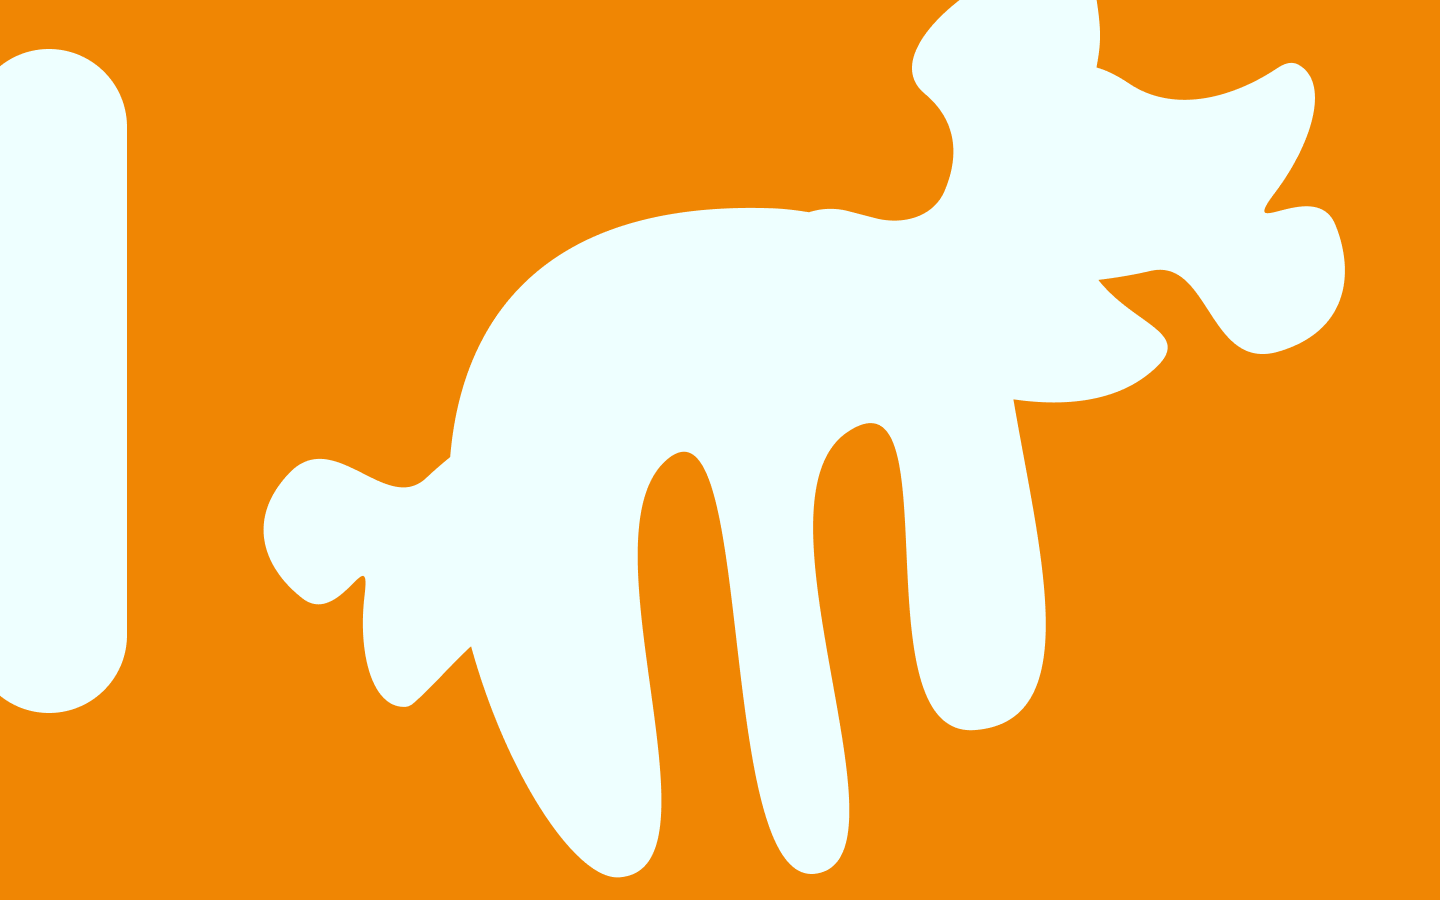
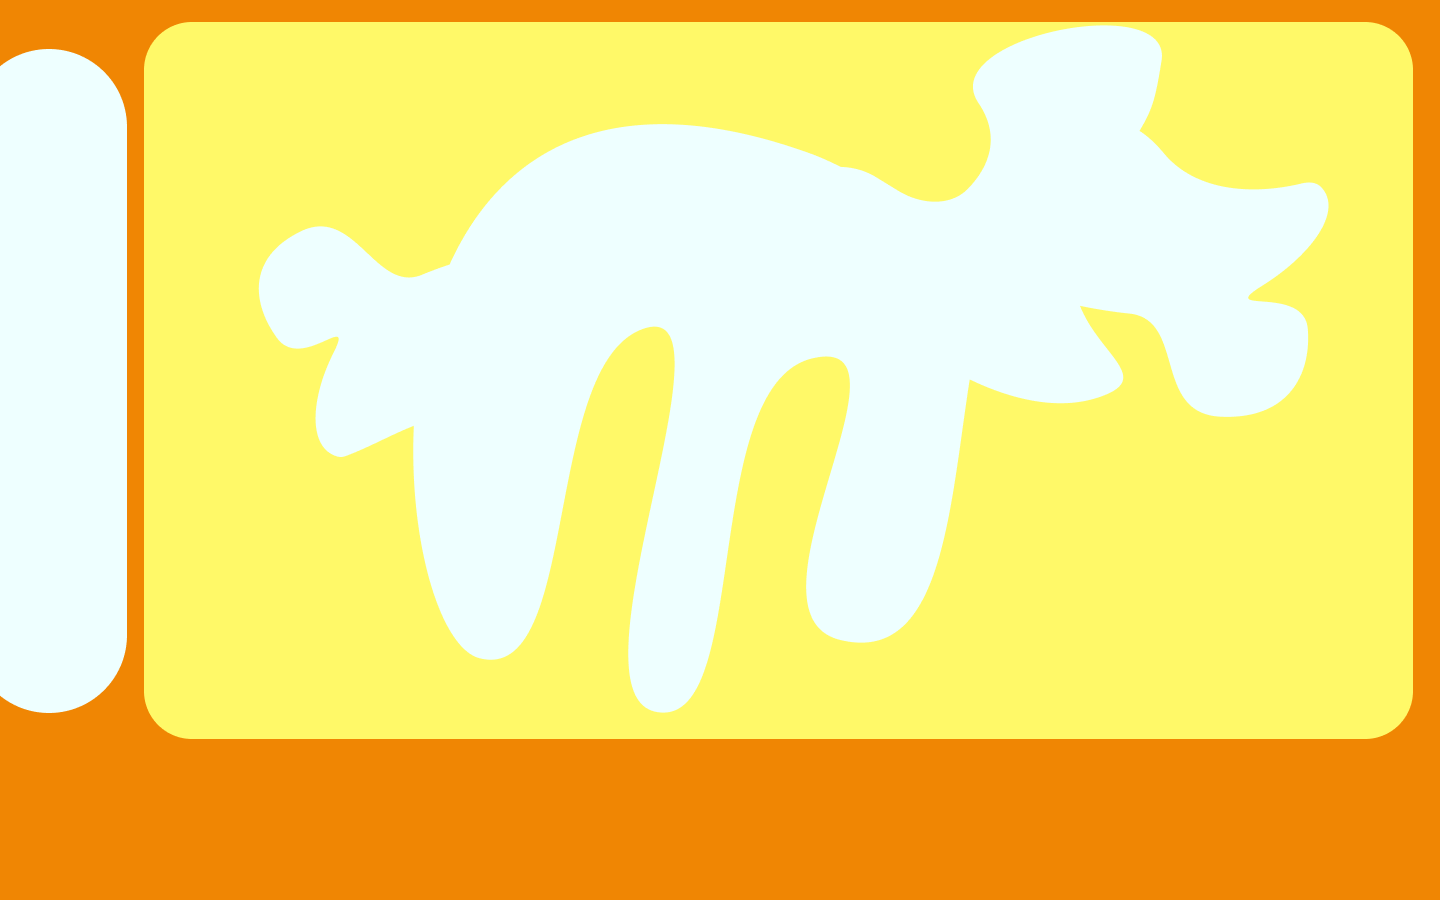
done

diff --git a/paint.html b/paint.html
@@ -1,0 +1,76 @@
+<!DOCTYPE html>
+<html lang="en" dir="ltr">
+  <head>
+    <meta charset="utf-8" />
+     <meta name="viewport" content="width=device-width"/>
+     <title>заплетак</title>
+     <script src="https://ajax.googleapis.com/ajax/libs/jquery/3.6.0/jquery.min.js"></script>
+     <script src="https://ajax.googleapis.com/ajax/libs/jquery/3.6.3/jquery.min.js"></script>
+     <script src="https://cdn.jsdelivr.net/npm/p5@1.5.0/lib/p5.js"></script>
+     <script src="https://code.jquery.com/jquery-3.6.0.js"></script>
+     <script src="https://code.jquery.com/ui/1.13.2/jquery-ui.js"></script>
+
+     <script src="js/draww.js"></script>
+
+     <link rel="stylesheet" href="css/style.css">
+     <link rel="icon" type="image/x-icon" href="images/favicon.png" />
+     <script type="text/javascript">
+              $(document).ready(function(){
+                // переходы из труб в разделы-игры
+                $(".items_blue").click(function() {
+                  $(".screen_4").css("display", "block")
+                  $(".screen_2").css("display", "none")
+                  $(".screen_1").css("display", "none")
+                  $(".screen_3").css("display", "none")
+                });
+
+                $(".items_orange").click(function() {
+                  $(".screen_3").css("display", "block")
+                  $(".screen_1").css("display", "none")
+                  $(".screen_2").css("display", "none")
+                  $(".screen_4").css("display", "none")
+                });
+
+                $(".colors").click(function() {
+                  $(".screen_4").css("display", "none")
+                  $(".screen_2").css("display", "block")
+                  $(".screen_3").css("display", "none")
+                  $(".screen_1").css("display", "none")
+                });
+                $("#home").click(function() {
+                  $(".screen_1").css("display", "block")
+                  $(".screen_2").css("display", "none")
+                  $(".screen_3").css("display", "none")
+                  $(".screen_4").css("display", "none")
+                });
+                $("#home_1").click(function() {
+                  $(".screen_1").css("display", "block")
+                  $(".screen_2").css("display", "none")
+                  $(".screen_3").css("display", "none")
+                  $(".screen_4").css("display", "none")
+                });
+                $("#home_2").click(function() {
+                  $(".screen_1").css("display", "block")
+                  $(".screen_2").css("display", "none")
+                  $(".screen_3").css("display", "none")
+                  $(".screen_4").css("display", "none")
+                });
+                $("#next_2").click(function() {
+                  $(".screen_4").css("display", "block")
+                  $(".screen_2").css("display", "none")
+                  $(".screen_3").css("display", "none")
+                  $(".screen_1").css("display", "none")
+                });
+                $("#next_1").click(function() {
+                  $(".screen_3").css("display", "block")
+                  $(".screen_2").css("display", "none")
+                  $(".screen_1").css("display", "none")
+                  $(".screen_4").css("display", "none")
+                });
+              });
+        </script>
+  </head>
+  <body>
+<!-- кнопка домой -->
+   <canvas id="canvas"></canvas>
+  </body>

diff --git a/js/draww.js b/js/draww.js
@@ -1,0 +1,93 @@
+$(document).ready(function(){
+  $(document).mousemove(function(e){
+    $(".cursor").css({
+      left: e.clientX,
+      top: e.clientY,
+      opacity: "100%",
+    })});
+  $(document).mousemove(function(e){
+    $(".cursor").css({
+        left: e.clientX,
+        top: e.clientY,
+        opacity: "100%",
+    })});
+
+  // РИСОВАЛКА
+  let
+    canvas, ctx, brush = {
+      x: 0,
+      y: 0,
+      color: '#FFF968',
+      size: 8,
+      down: false,
+    },
+    strokes = [],
+    currentStroke = null;
+  function redraw () {
+    ctx.clearRect(0, 0, canvas.width(), canvas.height());
+    ctx.lineCap = 'round';
+    for (let i = 0; i < strokes.length; i++) {
+      let s = strokes[i];
+      ctx.strokeStyle = s.color;
+      ctx.lineWidth = s.size;
+      ctx.beginPath();
+      ctx.moveTo(s.points[0].x, s.points[0].y);
+      for (let j = 0; j < s.points.length; j++) {
+        let p = s.points[j];
+        ctx.lineTo(p.x, p.y);
+      }
+      ctx.stroke();
+    }
+  }
+  function init () {
+    canvas = $('#canvas');
+    canvas.attr({
+      width: window.innerWidth,
+      height: window.innerHeight,
+    });
+    ctx = canvas[0].getContext('2d');
+    function mouseEvent (e) {
+      brush.x = e.pageX;
+      brush.y = e.pageY;
+      currentStroke.points.push({
+        x: brush.x,
+        y: brush.y,
+      });
+      redraw();
+    }
+    canvas.mousedown(function (e) {
+      brush.down = true;
+      currentStroke = {
+        color: brush.color,
+        size: brush.size,
+        points: [],
+      };
+      strokes.push(currentStroke);
+      mouseEvent(e);
+    }).mouseup(function (e) {
+        brush.down = false;
+        mouseEvent(e);
+      currentStroke = null;
+    }).mousemove(function (e) {
+      if (brush.down)
+      mouseEvent(e);
+    });
+    $('.clearButton').click(function () {
+      strokes = [];
+      redraw();
+    });
+    $('.c_yellow').click(function () {
+      brush.color = "#FFF968";
+    });
+    $('.c_black').click(function () {
+      brush.color = "#021F69";
+    });
+    $('.c_blue').click(function () {
+      brush.color = "#12A4FF";
+    });
+    $('.c_orange').click(function () {
+      brush.color = "#F08603";
+    });
+  }
+  $(init);
+});

diff --git a/index.html b/index.html
@@ -10,11 +10,12 @@
      <script src="https://code.jquery.com/ui/1.13.2/jquery-ui.js"></script>
      <script src="js/find.js"></script>
      <script src="js/draw.js"></script>
-     <script src="js/ddraw.js"></script>
+     <script src="js/draww.js" defer></script>
      <script src="js/puzzle.js"></script>
      <link rel="stylesheet" href="css/style.css">
      <link rel="icon" type="image/x-icon" href="images/favicon.png" />
      <script type="text/javascript">
+
               $(document).ready(function(){
                 // переходы из труб в разделы-игры
                 $(".items_blue").click(function() {
@@ -71,7 +72,7 @@
         </script>
   </head>
   <body>
-    <cursor></cursor>
+    <div class="cursor"></div>
     <div class="forrotate">
       <img src="images/rotate.svg" class="rotate">
     </div>
@@ -107,11 +108,11 @@
     </section>
     <section class="screen_2">
       <h1 contentEditable="true">Заплетак 1</h1>
+      <canvas id="canvas"></canvas>
       <div class="colorButton c_blue"></div>
       <div class="colorButton c_black"></div>
       <div class="colorButton c_yellow"></div>
       <div class="colorButton c_orange"></div>
-    </div>
       <!-- заплетак 1 -->
       <div class="zapl1"></div>
       <div class="zapl1"></div>
@@ -128,7 +129,7 @@
       <div class="zapl3"></div>
       <div class="zapl3"></div>
       <!-- кнопка домой -->
-      <canvas id="canvas"></canvas>
+
       <div id="home"></div>
       <div id="next_1"></div>
 
@@ -150,6 +151,7 @@
       <div id="next_2"></div>
     </section>
     <section class="screen_4">
+      <div class="puzzle">
         <div class="puzzle1"></div>
         <div class="puzzle2"></div>
         <div class="puzzle3"></div>
@@ -170,6 +172,8 @@
         <div class="puzzle18"></div>
         <div class="puzzle19"></div>
         <div class="puzzle20"></div>
+      </div>
         <div id="home_2"></div>
     </section>
+  </body>
 </html>

diff --git a/css/main.css b/css/main.css
@@ -6,12 +6,11 @@
   --yellow:#FFF968;
   --background: #EEFFFF;
 }
-*{
-  cursor: url(../images/cursor_1.svg);
+* {
+  cursor: none;
 }
 /* МИНИ-ИГРЫ */
 .screen_1 {
-  cursor: url(../images/cursor_1.svg);
   display: block;
 }
 
@@ -37,7 +36,6 @@
 html {
   width: 100vw;
   height: 100vh;
-  cursor: url(../images/cursor_1.svg);
 }
 body {
   overflow-x: hidden;
@@ -46,15 +44,21 @@ body {
   height:100vh;
   font-family: "Forma DJR";
   background-color: var(--background);
-  cursor: url(../images/cursor_1.svg);
 }
 section{
   position: absolute;
   width: 100vw;
   height:100vh;
 }
-cursor{
-  width: 16.806vw;
+.cursor{
+  opacity: 0%;
+  z-index: 10000;
+  pointer-events: none;
+  position: absolute;
+  background-image:url(../images/cursor_1.svg);
+  background-size: cover;
+  width: 6.1vw;
+  height: 7vw;
 }
 .tubes{
   position: absolute;
@@ -62,14 +66,12 @@ cursor{
   height: 56vw;
 }
 .items_blue{
-  cursor: move;
   position: absolute;
   width: 23.5vw;
   margin-left: 7vw;
   margin-top: 8.7vw;
 }
 .itemz_orange{
-  cursor: url(../images/cursor_1.svg), auto;
   position: absolute;
   width: 18.615vw;
   height: 57.192vw;
@@ -244,14 +246,11 @@ cursor{
   overflow: hidden;
 }
 #canvas{
-  width: 100vw;
-  height: 60vw;
+  width: 100%;
+  height: 100%;
   display: block;
   background: url('../images/y_background.png');
   background-size: cover;
-}
-.drawBack {
-  position: absolute;
 }
 h1{
   position: absolute;
@@ -260,9 +259,9 @@ h1{
   font-weight: 500;
   font-size: 4.861vw;
   letter-spacing: 0.04em;
-  color: var(--yellow);
+  color: var(--orange);
   margin-top: 4.728vw;
-  margin-left: 21vw;
+  margin-left: 14vw;
 }
 .colorButton{
   width: 4.333vw;

diff --git a/js/draw.js b/js/draw.js
@@ -27,12 +27,10 @@ $(document).ready(function(){
 	});
 });
 
-
-const canvas = document.querySelector('canvas')
-ctx = canvas.getContext("2d");
-
-const drawing = (e) => {
-  ctx.lineTo( e.offsetX, e.offsetY);
-  ctx.stroke();
-}
-canvas.addEventListener("mousemove", drawing);
+$(document).mousemove(function(e){
+  $(".cursor").css({
+    left: e.clientX,
+    top: e.clientY,
+    opacity: "100%",
+  })
+});

diff --git a/css/responsive.css b/css/responsive.css
@@ -12,6 +12,4 @@
 @media all and (orientation: landscape){
   .forrotate{display: none;}
 }
-.forrotate{
-  
-}
+@media only screen and (min-width: 320px) and (max-width: 789px){}
